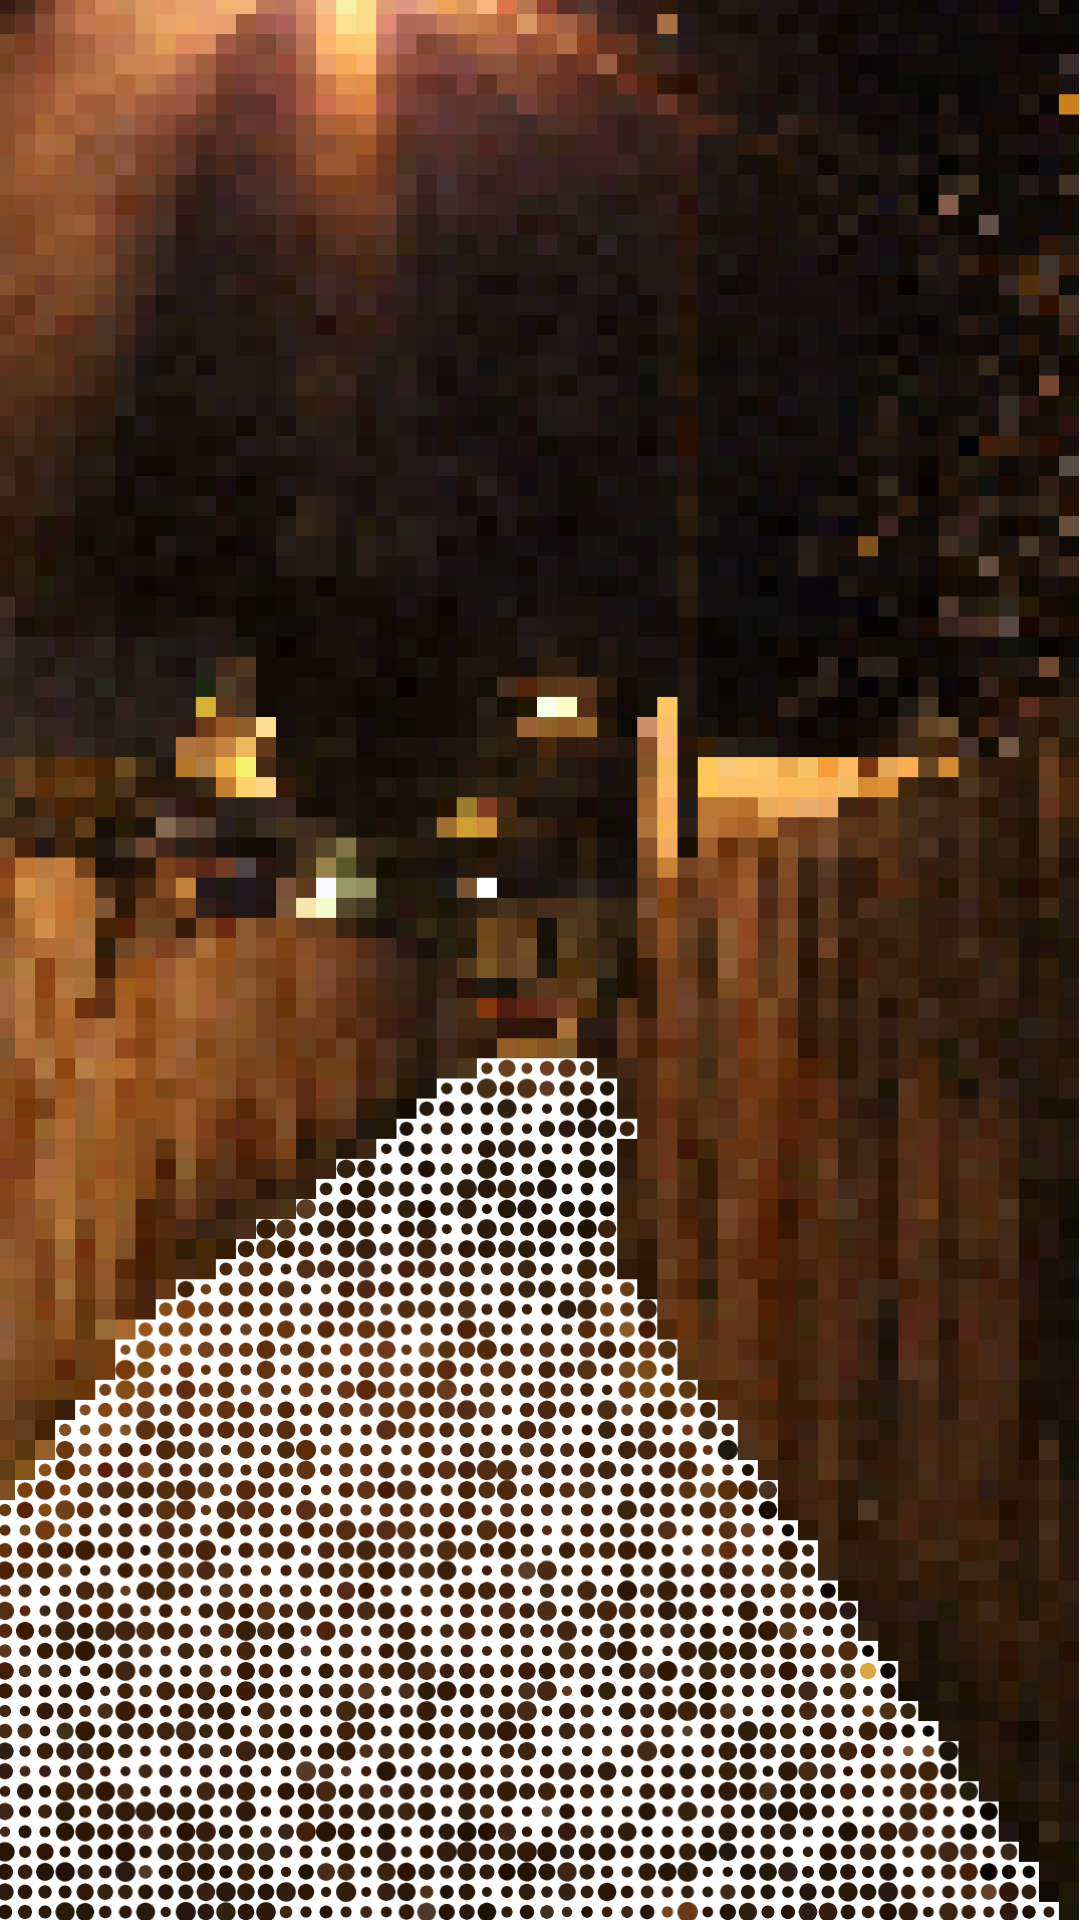
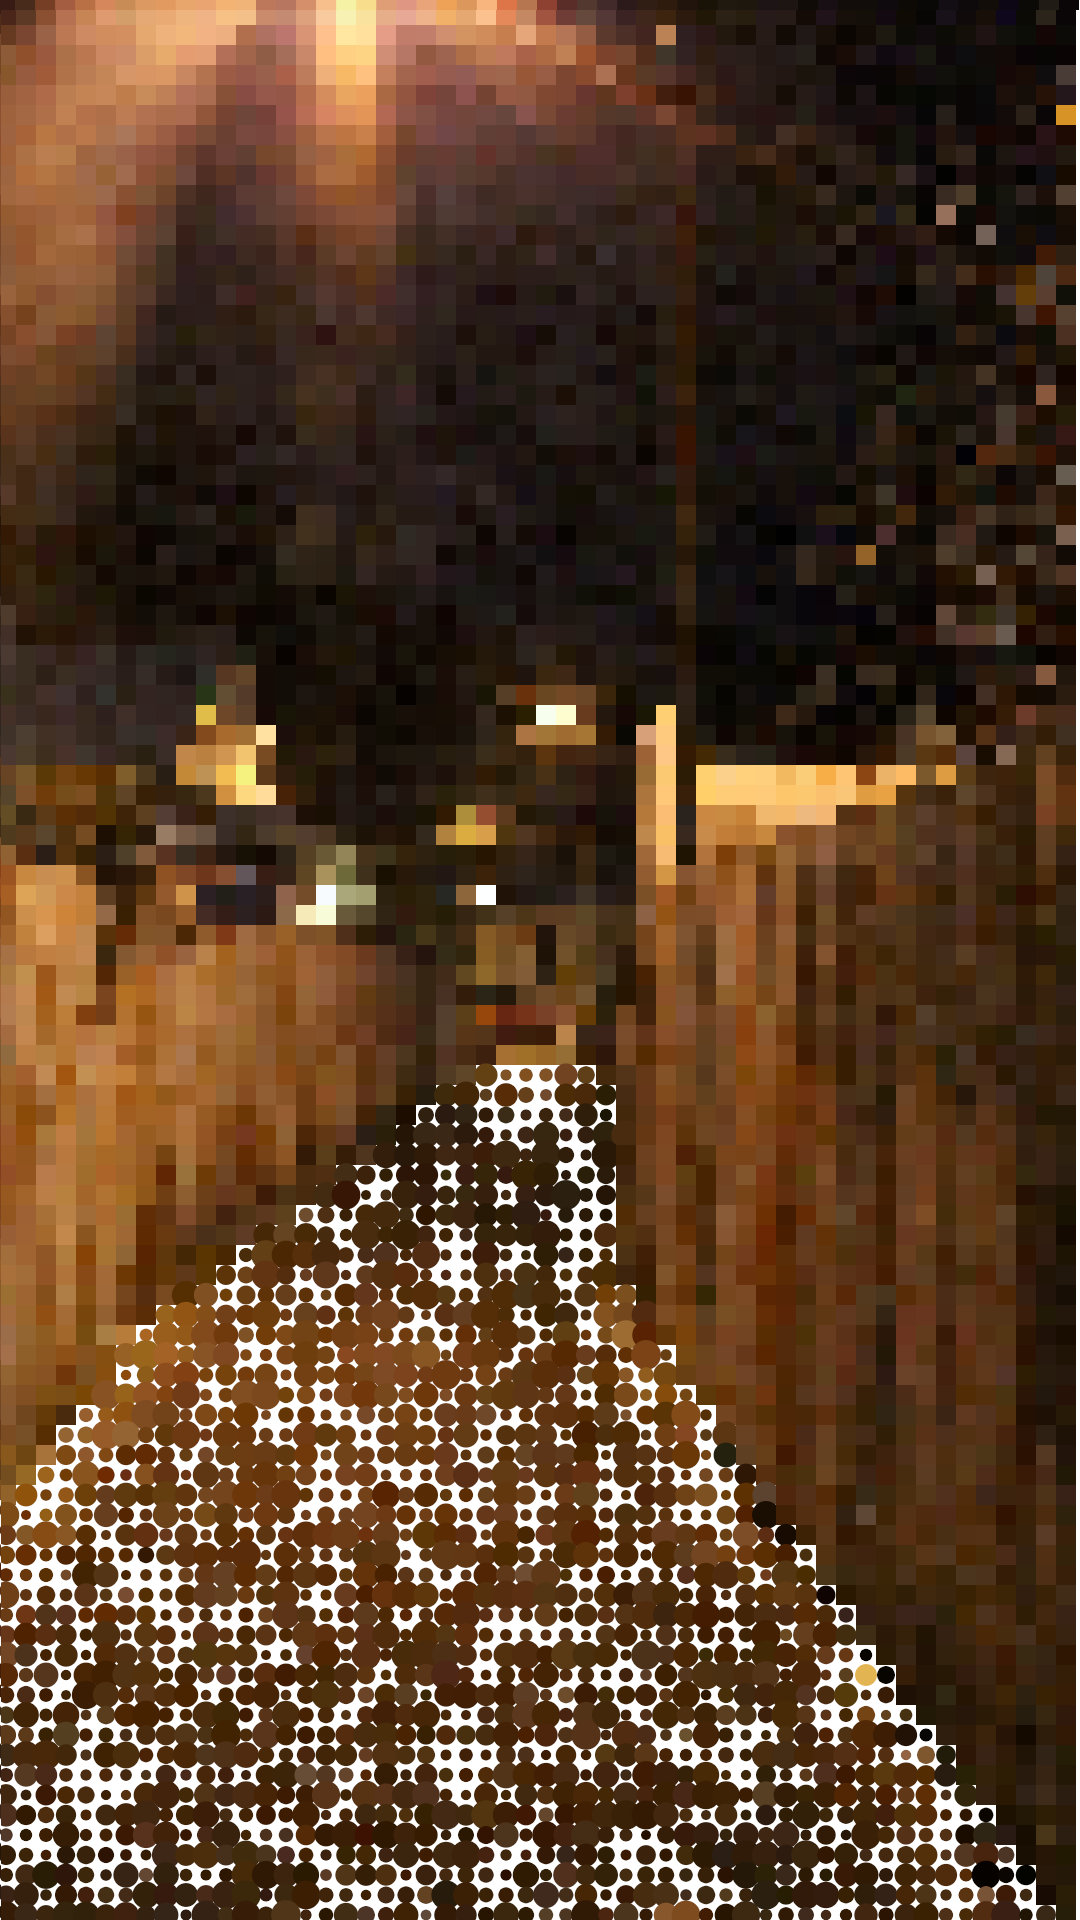
experiment one testing phase change the random parameters to see what the ellipses look liked

diff --git a/sketch.js b/sketch.js
@@ -33,7 +33,7 @@ function draw () {
     //let halfsize = pointSize/2;
     //editing the numbers below slows render but increases detail
     let halfsize = 5;
-    let pointSize1 = random(10,20);
+    let pointSize1 = random(10,30);
     fill(pix);
     if(mask[0] > 128) {
       ellipse(x+halfsize, y+halfsize, pointSize1, pointSize1);

diff --git a/README.md b/README.md
@@ -1,8 +1,8 @@
 ## Creative Coding 2: Custom Pixel
 
-Episode 04 THEME REVISED
+Episode 05 Experiment 
 
-the general theme shows three pathways both showing in the day and night. But the three pathways all connect into one big alleyway path, that interconnects a large portion of my commute to the train station as a student, and day or night, i always have to cross these paths to reduce the time i have to get to the station. Personally this pathway has saved me time in numerous occasions especially if your a student who always procrastinates.
+Randomixed the ellipses in a way that created 
 
 -take photos (REVISED)
 -make theme (REVISED)
